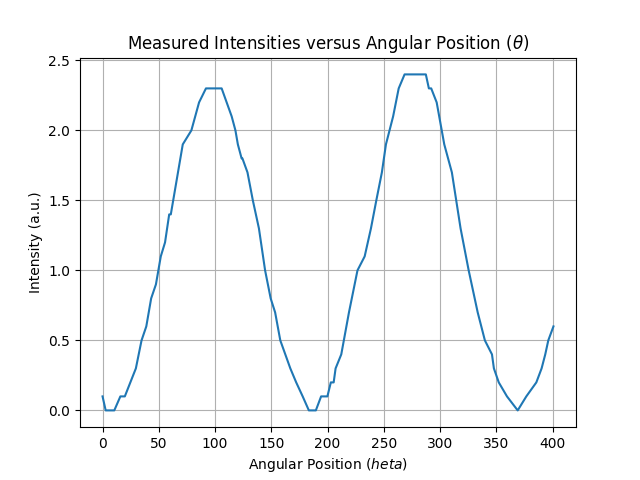
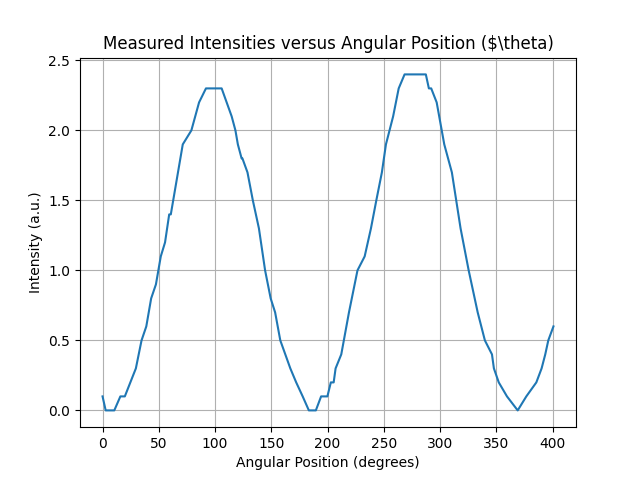
fixed typo

Changed region(s): [[0.1562, 0.0625, 0.875, 0.125], [0.375, 0.9375, 0.6562, 1.0]]

diff --git a/r2/plots/plot1.py b/r2/plots/plot1.py
@@ -18,8 +18,8 @@ x = [float(i[2]) for i in data]
 y = [float(i[1]) for i in data]
 
 plt.plot(x, y)
-plt.xlabel('Angular Position ($\theta$)')
+plt.xlabel('Angular Position (degrees)')
 plt.ylabel('Intensity (a.u.)')
 plt.grid()
-plt.title(r'Measured Intensities versus Angular Position ($\theta$)')
+plt.title(r'Measured Intensities versus Angular Position ($\theta)')
 plt.savefig('r2\\figures\plot1.png')
